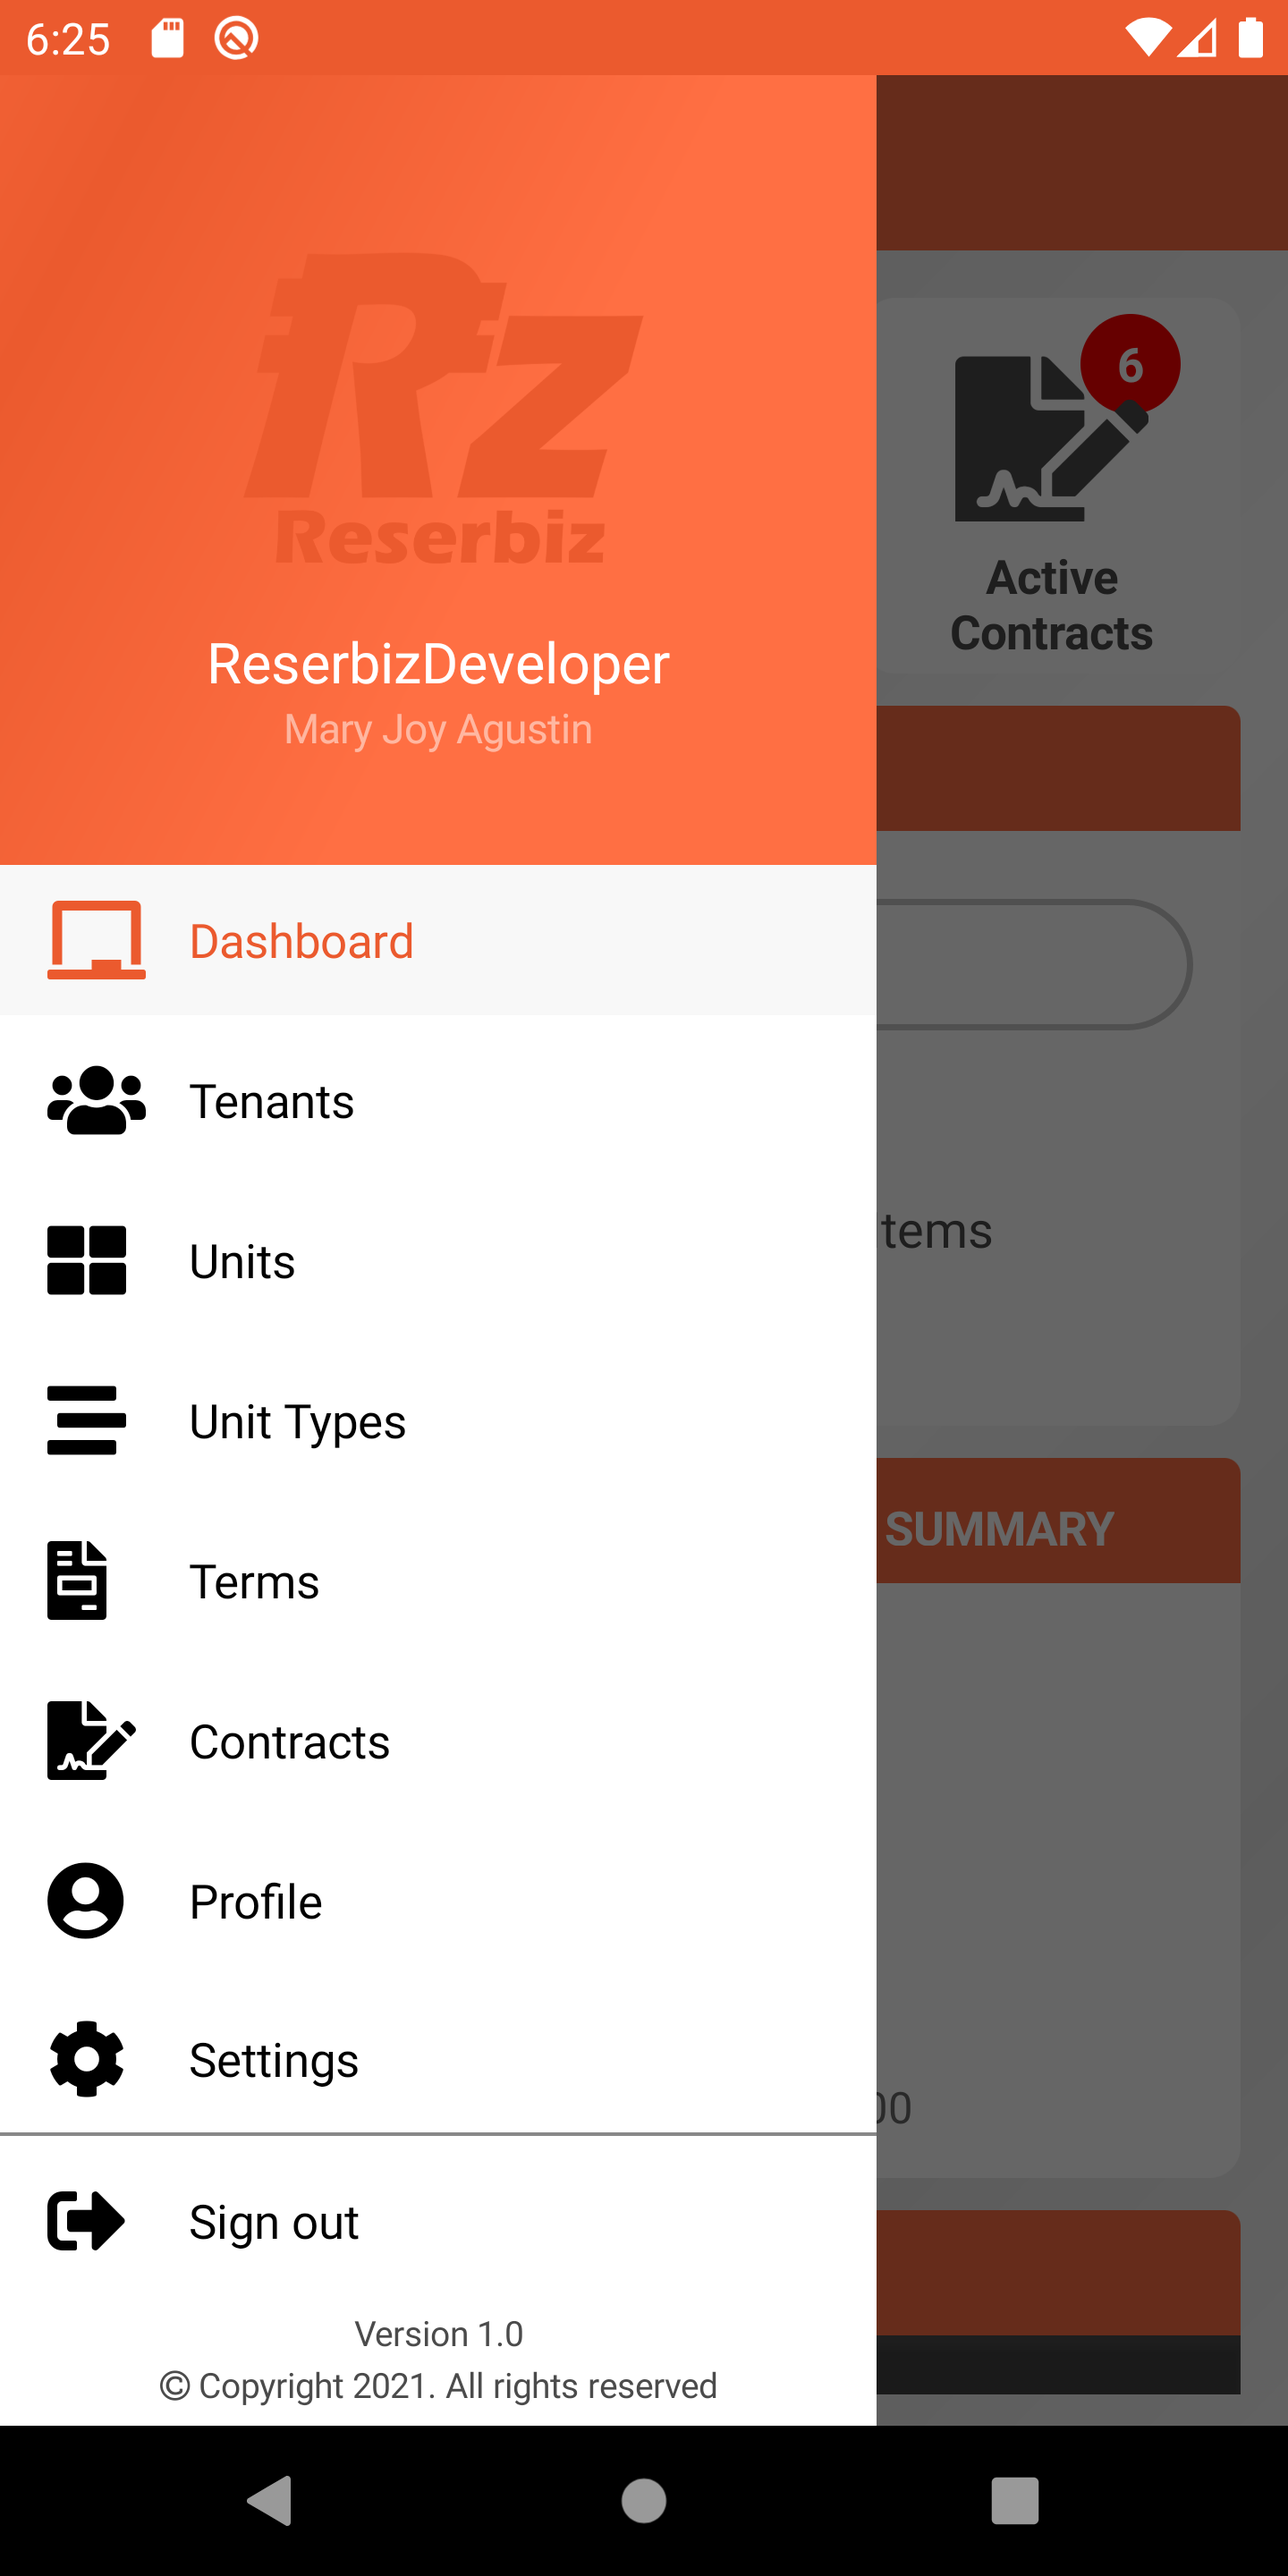
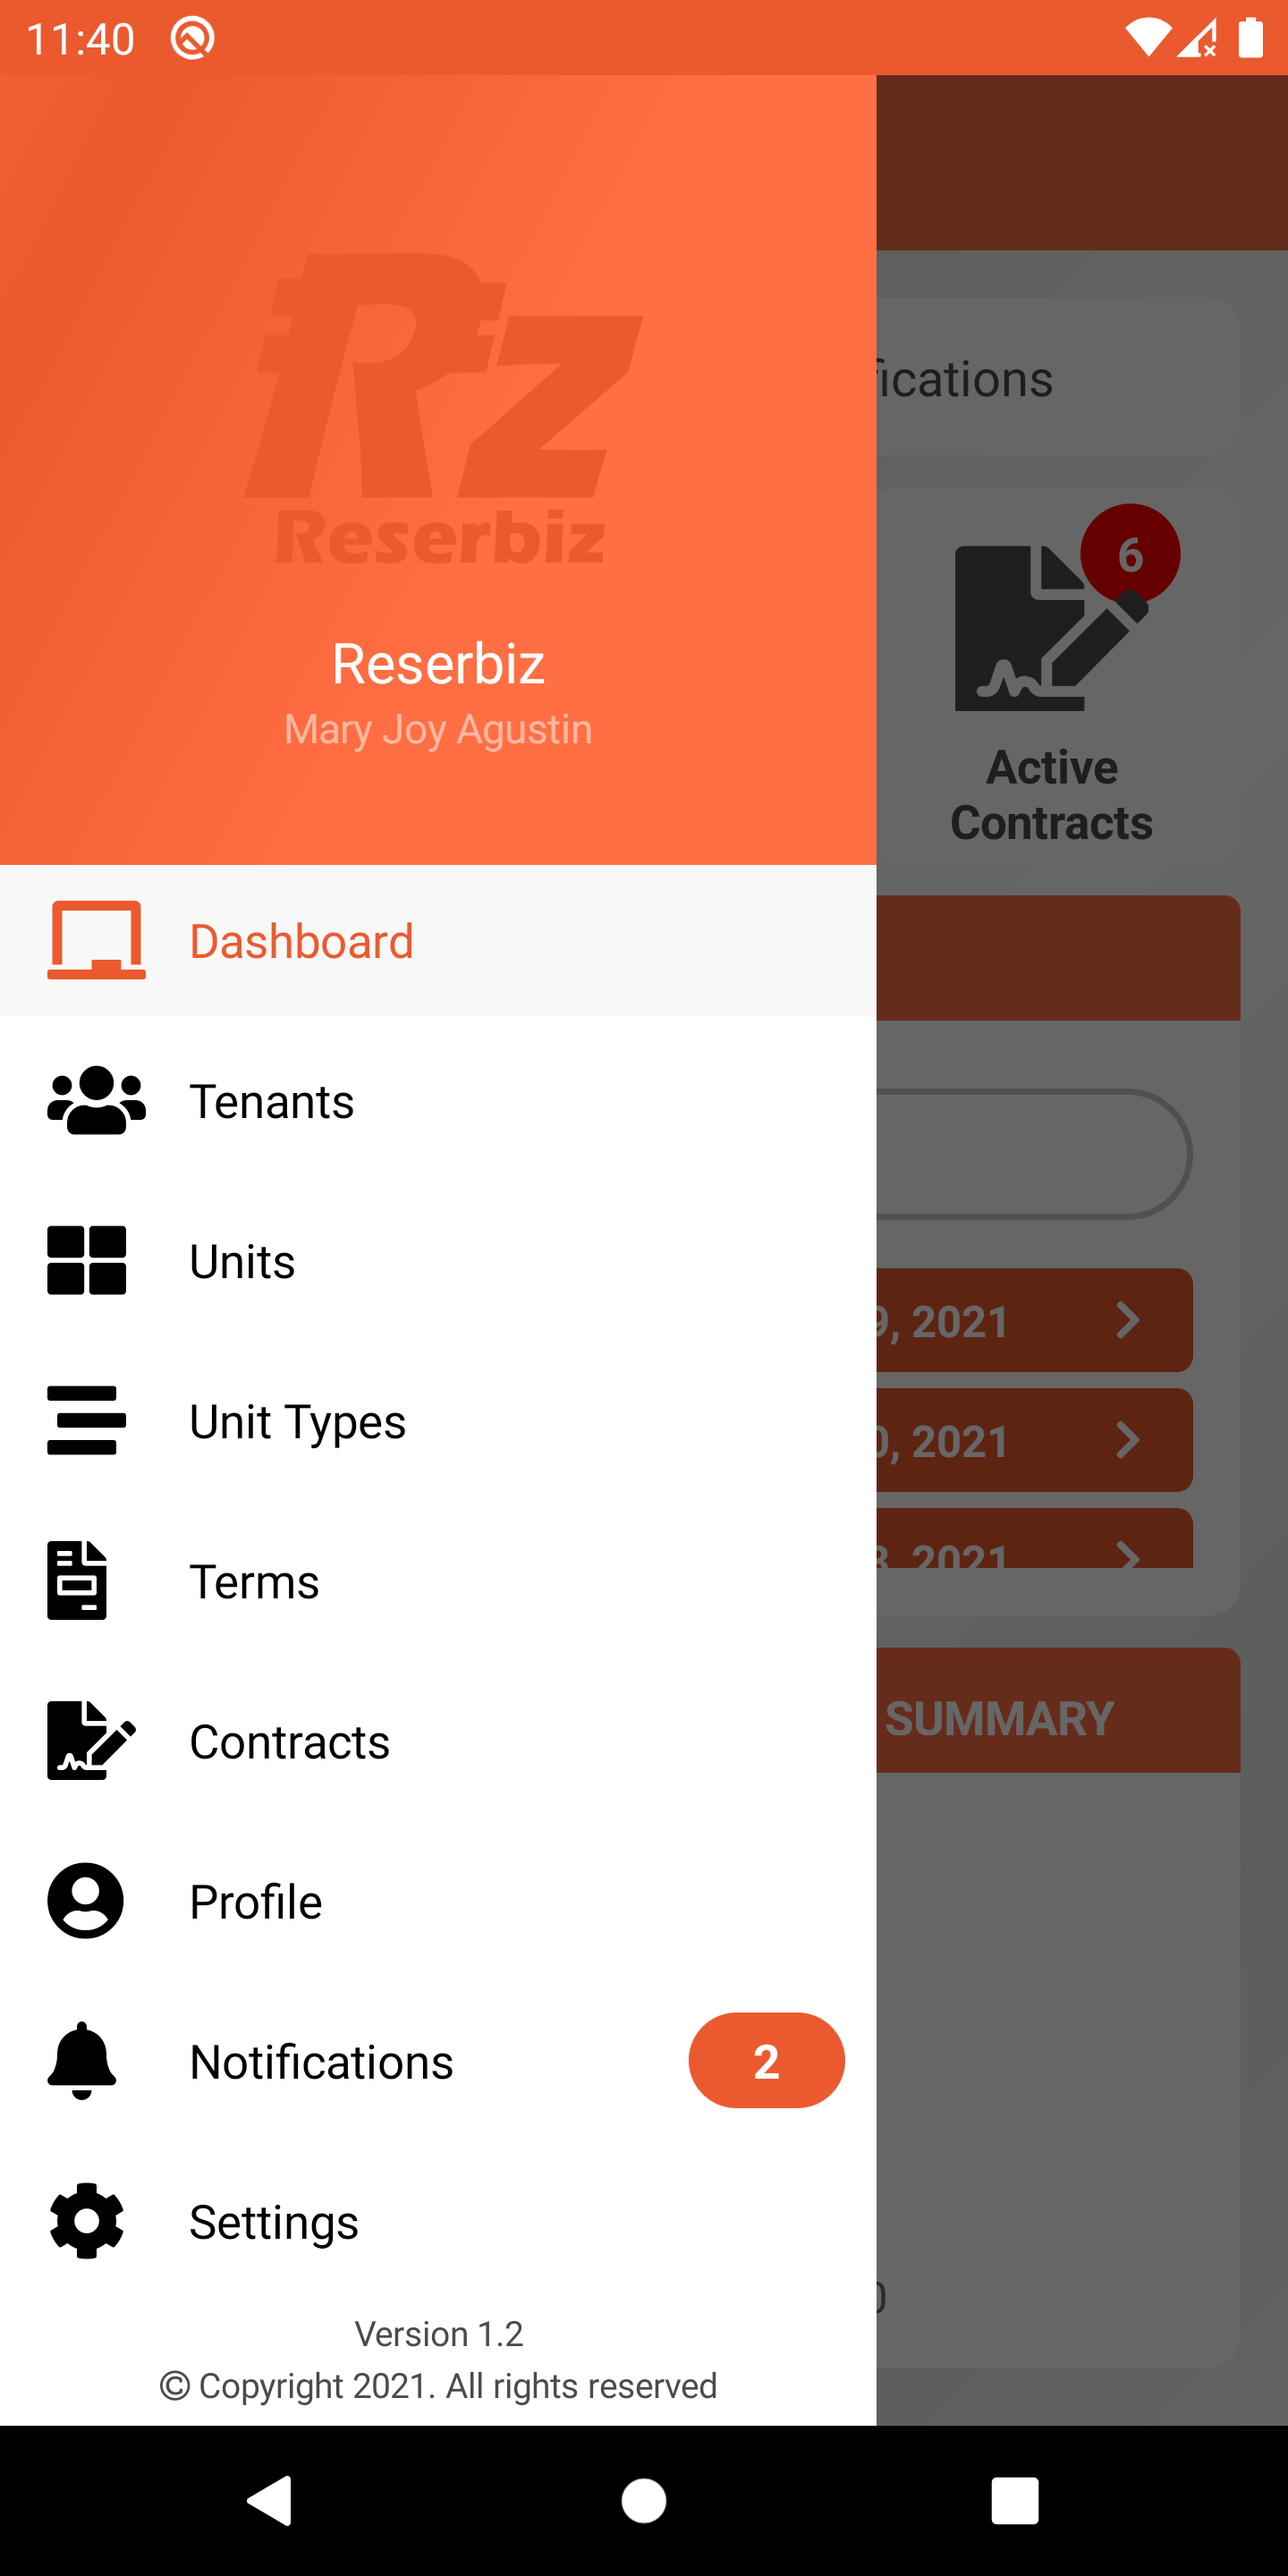
#95 - Updates on Online reference in connection with notification module

diff --git a/ReserbizOnlineDocumentation/src/app/notifications/notifications.component.html b/ReserbizOnlineDocumentation/src/app/notifications/notifications.component.html
@@ -1,0 +1,90 @@
+<app-tool-bar
+  [title]="'GENERAL_TEXTS.RESERBIZ_ONLINE_DOCUMENTATION' | translate"
+></app-tool-bar>
+<div class="page-container">
+  <div class="content-panel">
+    <mat-card>
+      <span class="main-title">{{
+        "NOTIFICATION_PAGE.HEADER.TITLE" | translate
+      }}</span>
+      <div class="divider"></div>
+
+      <section id="overview-section">
+        <span class="sub-title">{{
+          "NOTIFICATION_PAGE.BODY.OVERVIEW_SECTION.TITLE" | translate
+        }}</span>
+        <div
+          class="content-description"
+          [innerHTML]="
+            'NOTIFICATION_PAGE.BODY.OVERVIEW_SECTION.DESCRIPTION_1' | translate
+          "
+        ></div>
+
+        <div class="image-container">
+          <img src="../../assets/images/notifications/notification-list.png" />
+        </div>
+
+        <div
+          class="content-description"
+          [innerHTML]="
+            'NOTIFICATION_PAGE.BODY.OVERVIEW_SECTION.DESCRIPTION_2' | translate
+          "
+        ></div>
+      </section>
+
+      <section id="filter-notification-section">
+        <span class="sub-title">{{
+          "NOTIFICATION_PAGE.BODY.FILTER_NOTIFICATION_SECTION.TITLE" | translate
+        }}</span>
+        <div
+          class="content-description"
+          [innerHTML]="
+            'NOTIFICATION_PAGE.BODY.FILTER_NOTIFICATION_SECTION.DESCRIPTION_1'
+              | translate
+          "
+        ></div>
+        <div
+          class="content-description"
+          [innerHTML]="
+            'NOTIFICATION_PAGE.BODY.FILTER_NOTIFICATION_SECTION.DESCRIPTION_2'
+              | translate
+          "
+        ></div>
+        <div class="image-container">
+          <img
+            src="../../assets/images/notifications/notification-filter-dialog.png"
+          />
+        </div>
+      </section>
+
+      <app-footer></app-footer>
+    </mat-card>
+  </div>
+
+  <div class="content-subsection-panel">
+    <mat-expansion-panel [expanded]="!isHandset">
+      <mat-expansion-panel-header>
+        <mat-panel-title>{{
+          "SUBSECTION_PANEL.TITLE" | translate
+        }}</mat-panel-title>
+      </mat-expansion-panel-header>
+      <ul>
+        <li>
+          <a [routerLink]="['/notifications']" fragment="overview-section">{{
+            "NOTIFICATION_PAGE.BODY.OVERVIEW_SECTION.TITLE" | translate
+          }}</a>
+        </li>
+        <li>
+          <a
+            [routerLink]="['/notifications']"
+            fragment="filter-notification-section"
+            >{{
+              "NOTIFICATION_PAGE.BODY.FILTER_NOTIFICATION_SECTION.TITLE"
+                | translate
+            }}</a
+          >
+        </li>
+      </ul>
+    </mat-expansion-panel>
+  </div>
+</div>

diff --git a/ReserbizOnlineDocumentation/src/app/notifications/notifications.component.ts b/ReserbizOnlineDocumentation/src/app/notifications/notifications.component.ts
@@ -1,0 +1,46 @@
+import {
+  AfterViewChecked,
+  AfterViewInit,
+  Component,
+  OnDestroy,
+  OnInit,
+} from '@angular/core';
+import { ActivatedRoute } from '@angular/router';
+
+import { UIService } from '../services/ui.service';
+
+import { SharedComponent } from '../shared/components/shared/shared.component';
+
+@Component({
+  selector: 'app-notifications',
+  templateUrl: './notifications.component.html',
+  styleUrls: ['./notifications.component.scss'],
+})
+export class NotificationsComponent
+  extends SharedComponent
+  implements OnInit, OnDestroy, AfterViewInit, AfterViewChecked
+{
+  constructor(
+    protected activatedRoute: ActivatedRoute,
+    protected uiService: UIService
+  ) {
+    super(uiService);
+    this.activatedRoute = activatedRoute;
+  }
+
+  ngOnInit(): void {
+    super.ngOnInit();
+  }
+
+  ngOnDestroy(): void {
+    super.ngOnDestroy();
+  }
+
+  ngAfterViewInit(): void {
+    super.ngAfterViewInit();
+  }
+
+  ngAfterViewChecked(): void {
+    super.ngAfterViewChecked();
+  }
+}

diff --git a/ReserbizOnlineDocumentation/src/app/notifications/notifications.component.spec.ts b/ReserbizOnlineDocumentation/src/app/notifications/notifications.component.spec.ts
@@ -1,0 +1,28 @@
+/* tslint:disable:no-unused-variable */
+import { async, ComponentFixture, TestBed } from '@angular/core/testing';
+import { By } from '@angular/platform-browser';
+import { DebugElement } from '@angular/core';
+
+import { NotificationsComponent } from './notifications.component';
+
+describe('NotificationsComponent', () => {
+  let component: NotificationsComponent;
+  let fixture: ComponentFixture<NotificationsComponent>;
+
+  beforeEach(async(() => {
+    TestBed.configureTestingModule({
+      declarations: [ NotificationsComponent ]
+    })
+    .compileComponents();
+  }));
+
+  beforeEach(() => {
+    fixture = TestBed.createComponent(NotificationsComponent);
+    component = fixture.componentInstance;
+    fixture.detectChanges();
+  });
+
+  it('should create', () => {
+    expect(component).toBeTruthy();
+  });
+});

diff --git a/ReserbizOnlineDocumentation/src/app/dashboard/dashboard.component.html b/ReserbizOnlineDocumentation/src/app/dashboard/dashboard.component.html
@@ -27,6 +27,22 @@
 
       <section id="active-tenants-widget-section">
         <span class="sub-title">{{
+          "DASHBAORD_PAGE.BODY.UNREAD_NOTIFICATION_COUNT_WIDGET_SECTION.TITLE" | translate
+        }}</span>
+        <div
+          class="content-description"
+          [innerHTML]="
+            'DASHBAORD_PAGE.BODY.UNREAD_NOTIFICATION_COUNT_WIDGET_SECTION.DESCRIPTION'
+              | translate
+          "
+        ></div>
+        <div class="image-container">
+          <img src="../../assets/images/dashboard/unread-notification-count-widget.png" />
+        </div>
+      </section>
+
+      <section id="active-tenants-widget-section">
+        <span class="sub-title">{{
           "DASHBAORD_PAGE.BODY.ACTIVE_TENANTS_WIDGET_SECTION.TITLE" | translate
         }}</span>
         <div

diff --git a/ReserbizOnlineDocumentation/src/app/services/sidedrawer.service.ts b/ReserbizOnlineDocumentation/src/app/services/sidedrawer.service.ts
@@ -387,6 +387,22 @@ export class SidedrawerService {
         url: '/profile',
       },
       {
+        name: 'MAIN_MENU.NOTIFICATIONS',
+        url: '/notifications',
+        children: [
+          {
+            name: 'NOTIFICATION_PAGE.BODY.OVERVIEW_SECTION.TITLE',
+            url: '/notifications',
+            fragment: 'overview-section',
+          },
+          {
+            name: 'NOTIFICATION_PAGE.BODY.FILTER_NOTIFICATION_SECTION.TITLE',
+            url: '/notifications',
+            fragment: 'filter-notification-section',
+          },
+        ],
+      },
+      {
         name: 'MAIN_MENU.SETTINGS',
         url: '/settings',
       },

diff --git a/ReserbizOnlineDocumentation/src/app/notifications/notifications.module.ts b/ReserbizOnlineDocumentation/src/app/notifications/notifications.module.ts
@@ -1,0 +1,19 @@
+import { NgModule } from '@angular/core';
+import { RouterModule } from '@angular/router';
+
+import { SharedModule } from '../shared/shared.module';
+import { NotificationsComponent } from './notifications.component';
+
+@NgModule({
+  imports: [
+    RouterModule.forChild([
+      {
+        path: '',
+        component: NotificationsComponent,
+      },
+    ]),
+    SharedModule,
+  ],
+  declarations: [NotificationsComponent],
+})
+export class NotificationsModule {}

diff --git a/ReserbizOnlineDocumentation/src/app/app-routing.module.ts b/ReserbizOnlineDocumentation/src/app/app-routing.module.ts
@@ -67,6 +67,13 @@ const routes: Routes = [
       import('./profile/profile.module').then((m) => m.ProfileModule),
   },
   {
+    path: 'notifications',
+    loadChildren: () =>
+      import('./notifications/notifications.module').then(
+        (m) => m.NotificationsModule
+      ),
+  },
+  {
     path: 'settings',
     loadChildren: () =>
       import('./settings/settings.module').then((m) => m.SettingsModule),
